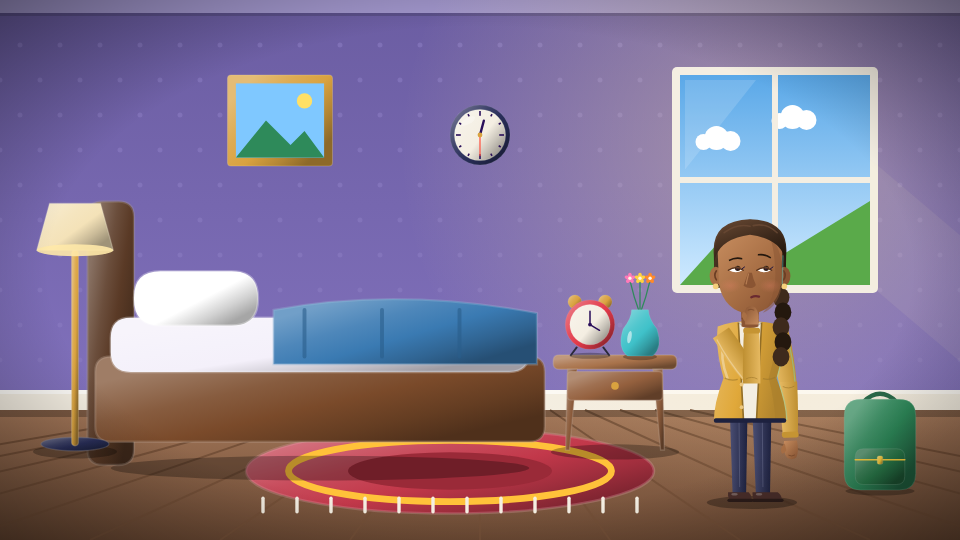
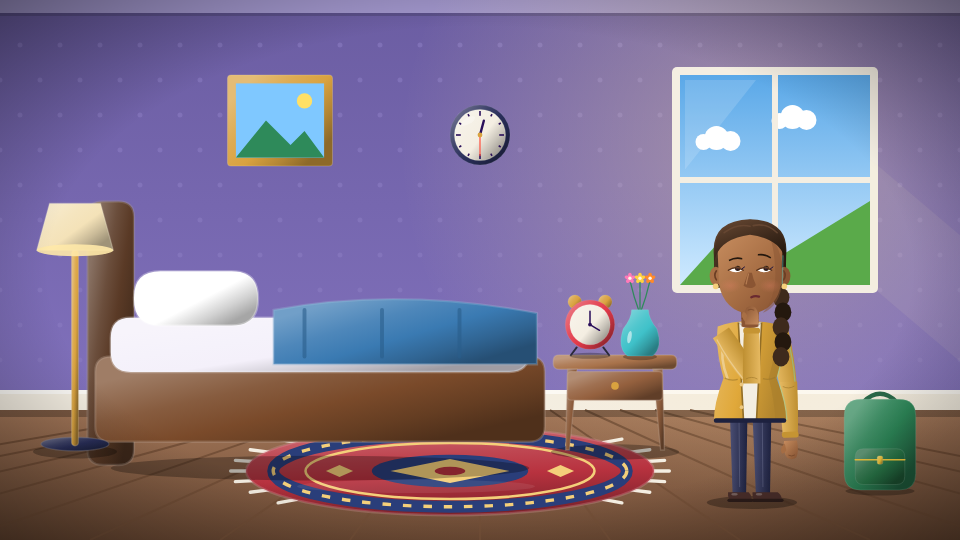
Rug redesign: patterned border, medallion, fringe attached to the edge (fixes all sets using it)

Changed region(s): [[0.25, 0.8, 0.6875, 0.9778]]

diff --git a/motion/sick-on-purpose/anim/src/objects3.tsx b/motion/sick-on-purpose/anim/src/objects3.tsx
@@ -89,8 +89,21 @@ const furniture: ObjDef[] = [
       {Array.from({ length: 7 }, (_, i) => <Part key={i} id={p + "b" + r + i} d={rr(-144 + i * 40, y + 140 - (90 + ((i * 37 + r * 13) % 40)), 34, 90 + ((i * 37 + r * 13) % 40), 4)} c={["#C2384A", "#2A3E7A", "#2E8A5A", "#E0A83A", "#7A4AA8", "#3FC1C9", "#E8743A"][(i + r) % 7]} rim={false} />)}</g>)}
   </g>) },
   { name: "rug", cat: "furniture", w: 230, draw: (p) => (<g>
-    <Part id={p + "r"} d={ell(0, -40, 240, 50)} c="#C2384A" /><ellipse cx={0} cy={-40} rx={190} ry={36} fill="none" stroke="#FFC23A" strokeWidth={8} /><ellipse cx={0} cy={-40} rx={120} ry={22} fill="#9A2A38" />
-    {Array.from({ length: 12 }, (_, i) => <Line key={i} d={`M${-220 + i * 40} -8 v 16`} c="#F4EEE2" w={4} />)}
+    {/* fringe attached to both short ends (seen in perspective) */}
+    {Array.from({ length: 7 }, (_, i) => { const t = (i - 3) / 3.6; const y = -40 + t * 40; const ex = 240 * Math.sqrt(1 - Math.pow((y + 40) / 52, 2)) - 4; return (
+      <g key={i}><Line d={`M${-ex} ${y} l -22 ${t * 5}`} c="#F4EEE2" w={4} /><Line d={`M${ex} ${y} l 22 ${t * 5}`} c="#F4EEE2" w={4} /></g>); })}
+    <Part id={p + "r"} d={ell(0, -40, 240, 52)} c="#B8323F" ang={80} />
+    {/* patterned border band */}
+    <ellipse cx={0} cy={-40} rx={208} ry={42} fill="none" stroke="#2A3E7A" strokeWidth={14} />
+    <ellipse cx={0} cy={-40} rx={208} ry={42} fill="none" stroke="#F4CF7A" strokeWidth={4} strokeDasharray="10 14" />
+    <ellipse cx={0} cy={-40} rx={170} ry={33} fill="none" stroke="#F4CF7A" strokeWidth={3} />
+    {/* centre medallion */}
+    <ellipse cx={0} cy={-40} rx={92} ry={19} fill="#2A3E7A" />
+    <path d="M-70 -40 L 0 -54 L 70 -40 L 0 -26 Z" fill="#F4CF7A" />
+    <ellipse cx={0} cy={-40} rx={18} ry={5} fill="#B8323F" />
+    {[-130, 130].map((x) => <path key={x} d={`M${x - 16} -40 L ${x} -47 L ${x + 16} -40 L ${x} -33 Z`} fill="#F4CF7A" />)}
+    {/* soft sheen on the near edge */}
+    <ellipse cx={-40} cy={-22} rx={140} ry={8} fill="#FFFFFF" opacity={0.08} />
   </g>) },
   { name: "picture-frame", cat: "furniture", w: 150, draw: (p) => (<g>
     <Part id={p + "f"} d={rr(-150, -300, 300, 260, 10)} c="#D9A23F" /><rect x={-126} y={-276} width={252} height={212} fill="#7FC8FF" />
